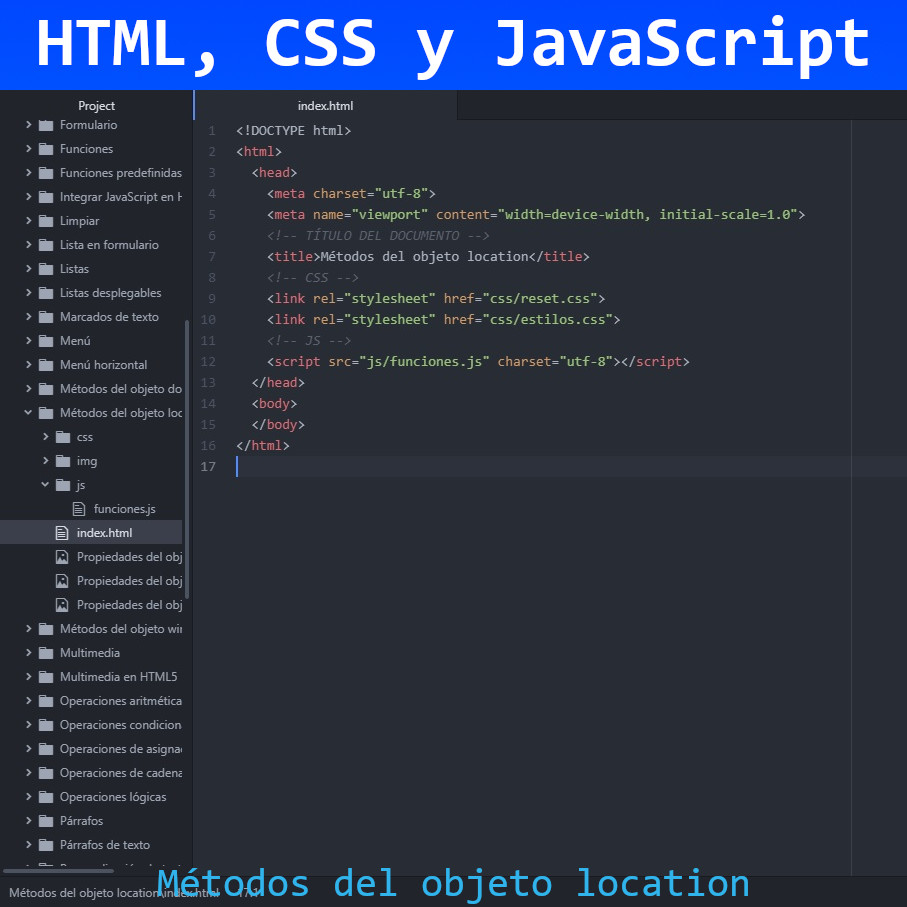
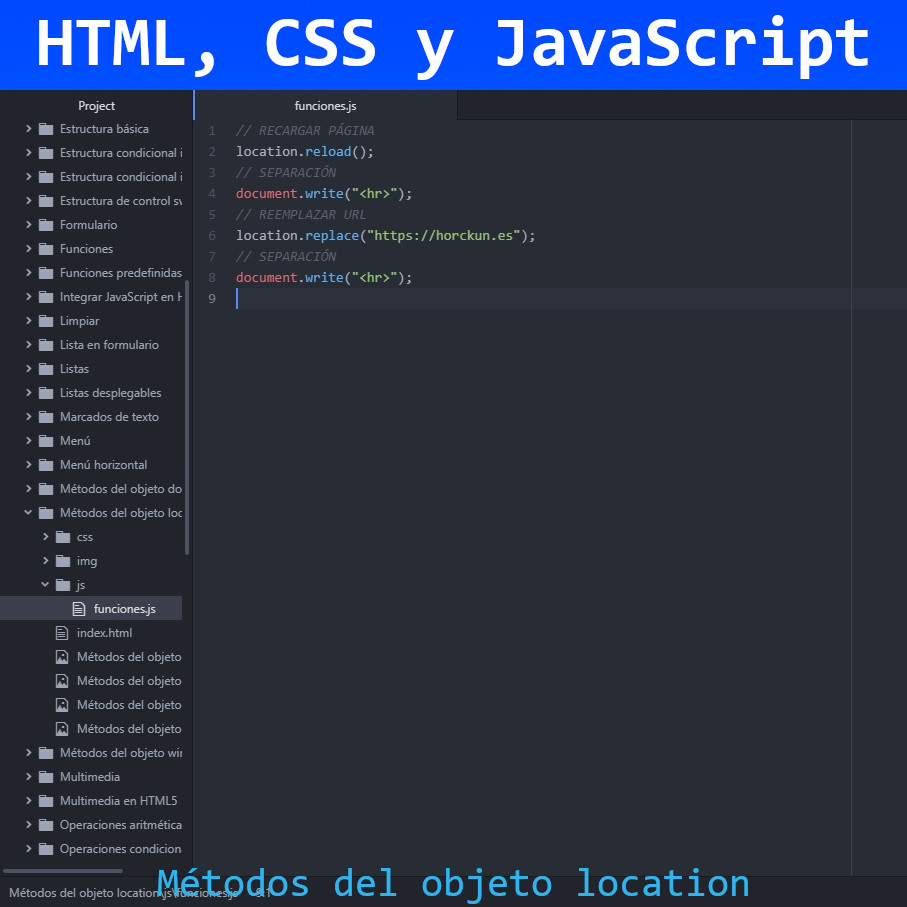
Métodos del objeto location
Métodos del objeto location en JavaScript

diff --git a/HTML, CSS y JavaScript/Métodos del objeto location/js/funciones.js b/HTML, CSS y JavaScript/Métodos del objeto location/js/funciones.js
@@ -2,3 +2,7 @@
 location.reload();
 // SEPARACIÓN
 document.write("<hr>");
+// REEMPLAZAR URL
+location.replace("https://horckun.es");
+// SEPARACIÓN
+document.write("<hr>");
